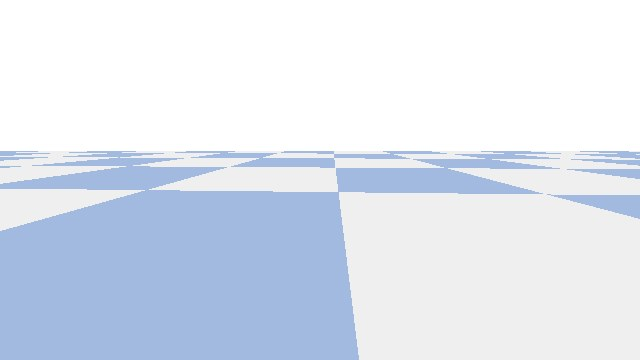
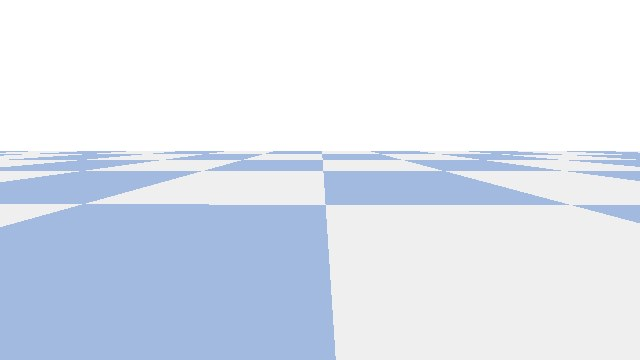
update project files

Changed region(s): [[0.0, 0.3972, 1.0, 1.0]]

diff --git a/spot_bullet/CRASH_TEST_REPORT.md b/spot_bullet/CRASH_TEST_REPORT.md
@@ -235,6 +235,37 @@ python3 spot_bullet/src/spot_train_ml.py \
 - Screenshot 2: Safe refusal message.
 - Screenshot 3: Successful training with a new run name.
 
+## Short UI Dependency Note
+
+### Goal
+
+Document that the local dashboard itself is also part of the platform and can fail differently depending on whether it is opened in a browser or through the local desktop launcher.
+
+### What Was Tested
+
+- The dashboard was opened locally through the Streamlit interface.
+- The platform was checked to confirm that the UI still loaded, rendered the control panels, and showed the ML camera area even when feed-selection state was not fully synchronized.
+
+### Why This Matters
+
+This is a platform dependency case because the dashboard is one of the main user-facing control surfaces. If the UI fails to open, or if the browser/app window behaves differently on another machine, users may think the whole platform is broken even when the simulator and ML worker are still running correctly.
+
+### Prevention Implemented
+
+- The dashboard has a dedicated launcher in `spot_bullet/Sim Display/launch_dashboard.py`.
+- The manual controller has a separate launcher in `spot_bullet/Sim Display/launch_manual_app.py`.
+- The ML camera area can still display the latest frame and worker status, which helps separate a UI issue from a simulator crash.
+- Windows-aware process handling was added so dashboard workers shut down more safely across operating systems.
+
+### Result
+
+The dashboard loaded successfully and remained usable as a local control surface. Even when the UI state and live-feed selection were not perfectly aligned, the platform still exposed enough status information to show that the backend worker was running instead of silently crashing.
+
+### Screenshot Evidence
+
+- Screenshot 1: Dashboard window or browser tab showing the SpotMini control UI loaded.
+- Screenshot 2: Live camera panel showing backend feed activity or status text.
+
 ## Summary Of Preventive Measures
 
 - Native PyBullet GUI is explicitly selected with `--render --bullet-gui`.
@@ -243,6 +274,7 @@ python3 spot_bullet/src/spot_train_ml.py \
 - Batch comparison continues even when one model candidate is bad.
 - Existing training runs are protected from accidental overwrite.
 - VecNormalize compatibility shims are used in playback and comparison so old saved normalization files still load.
+- The dashboard and manual app use launcher-based process handling to improve local UI reliability across machines.
 
 ## Final Notes
 
